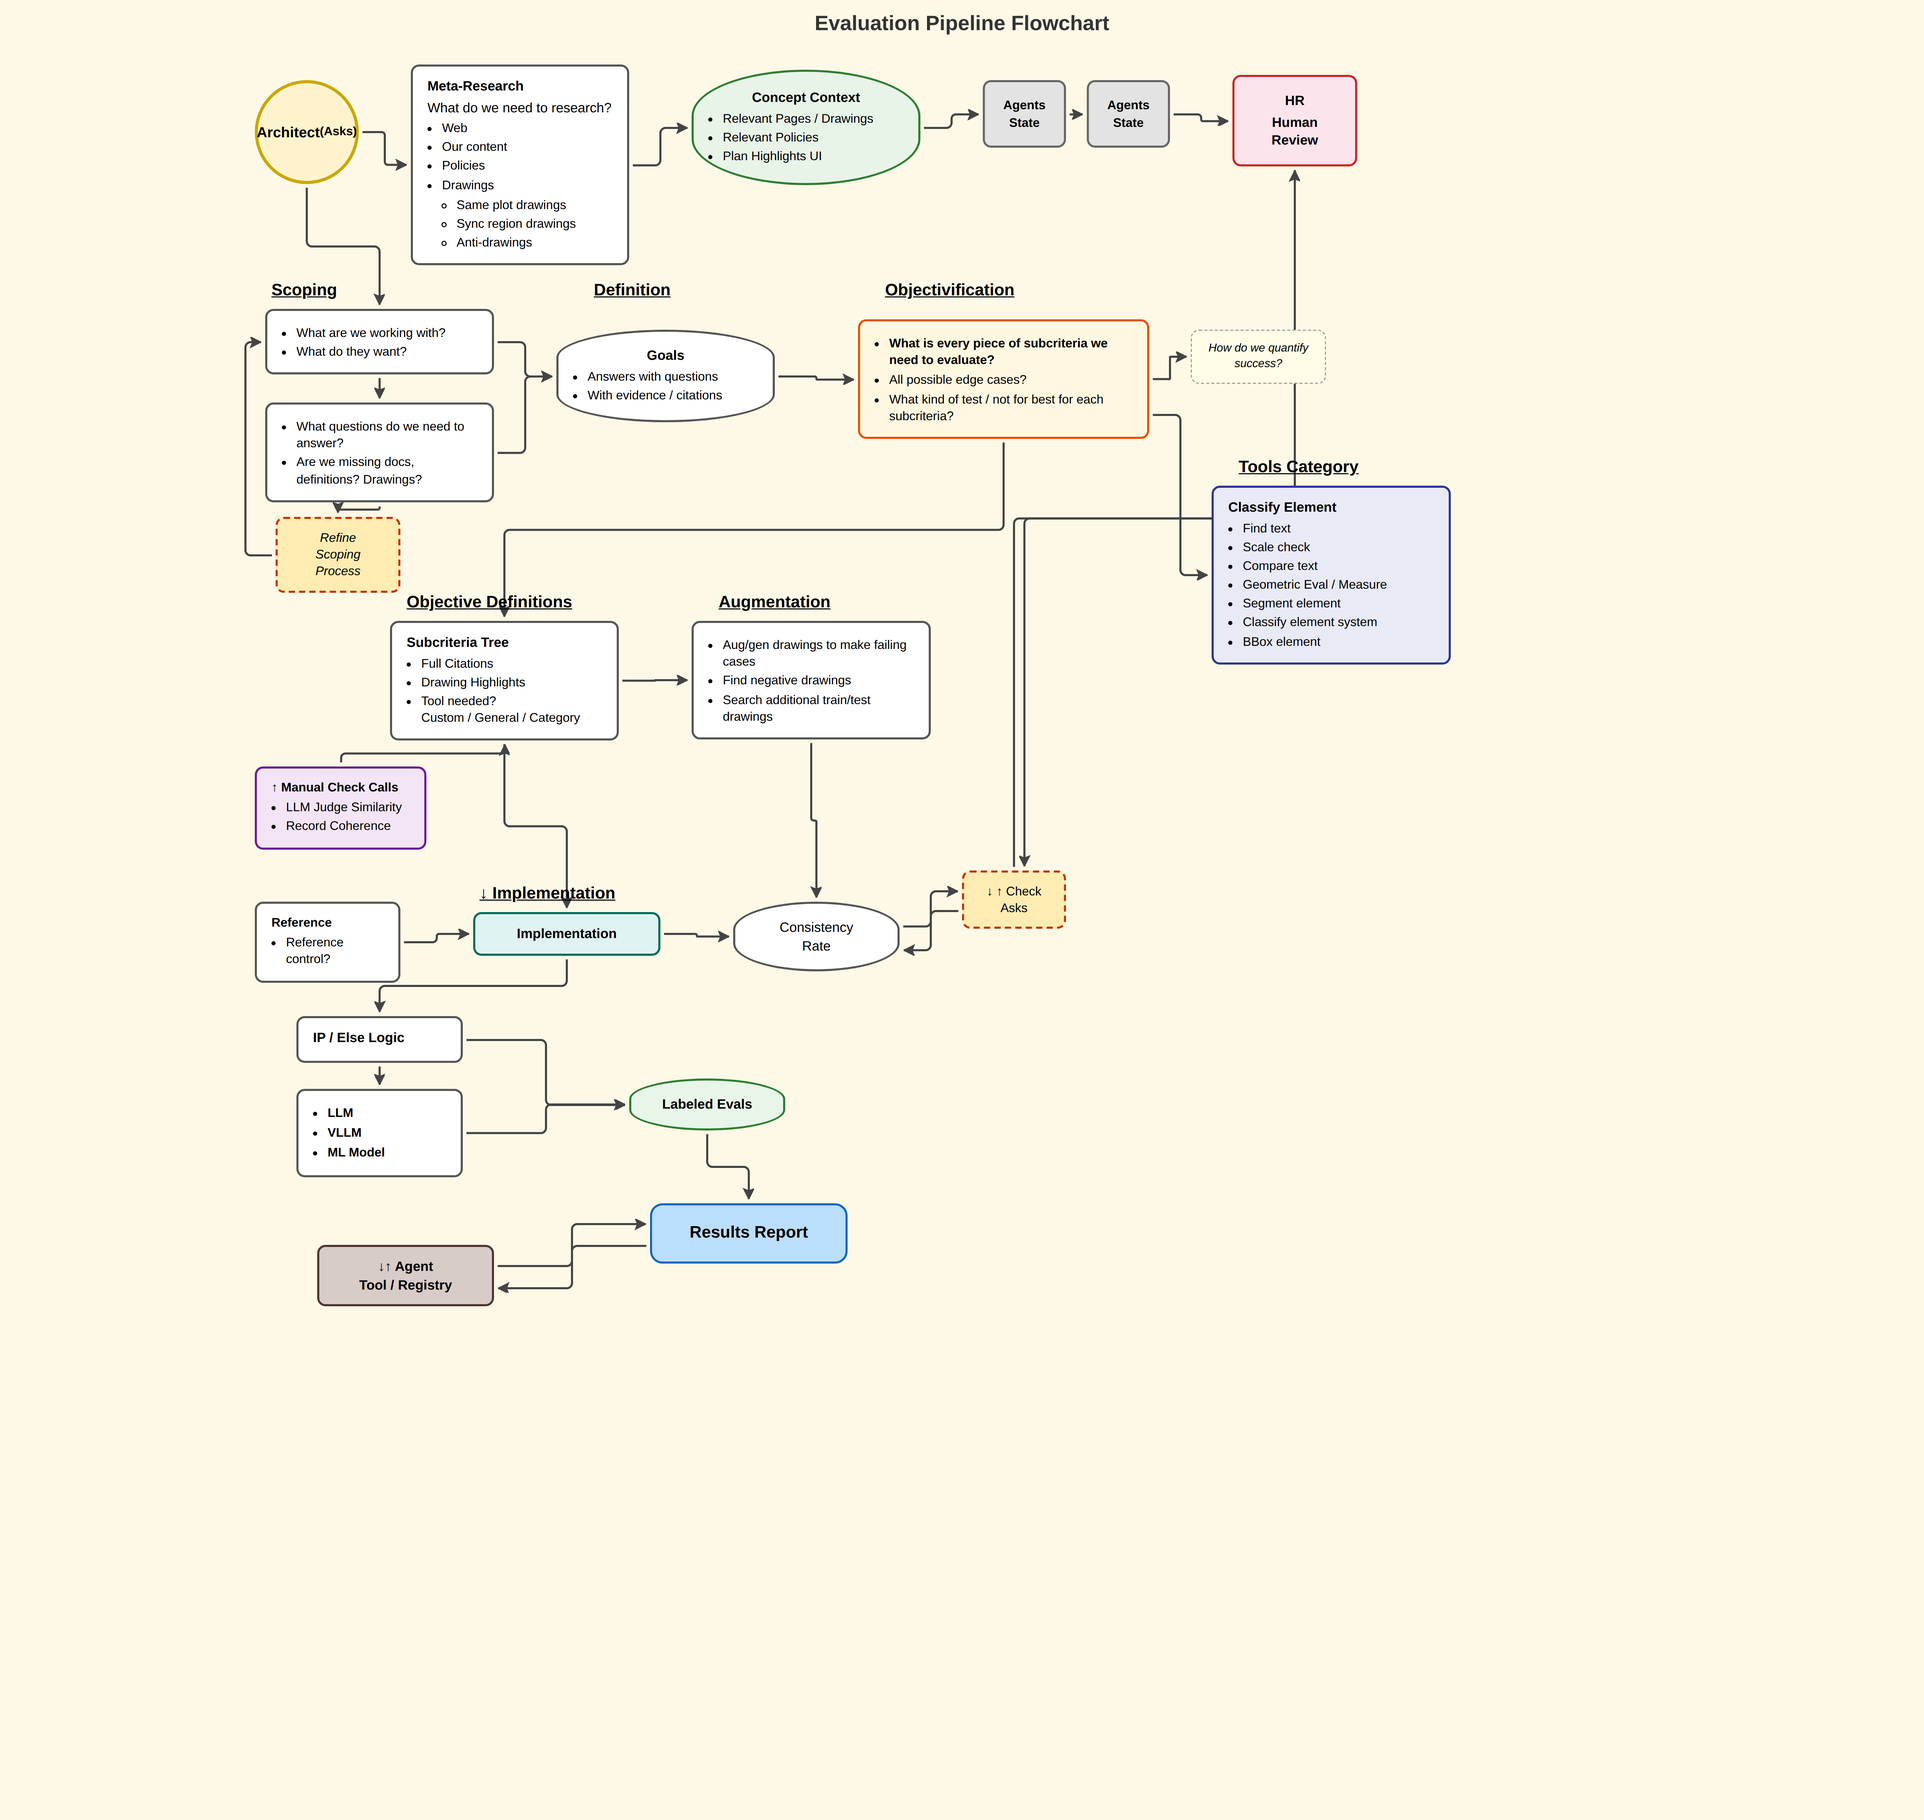
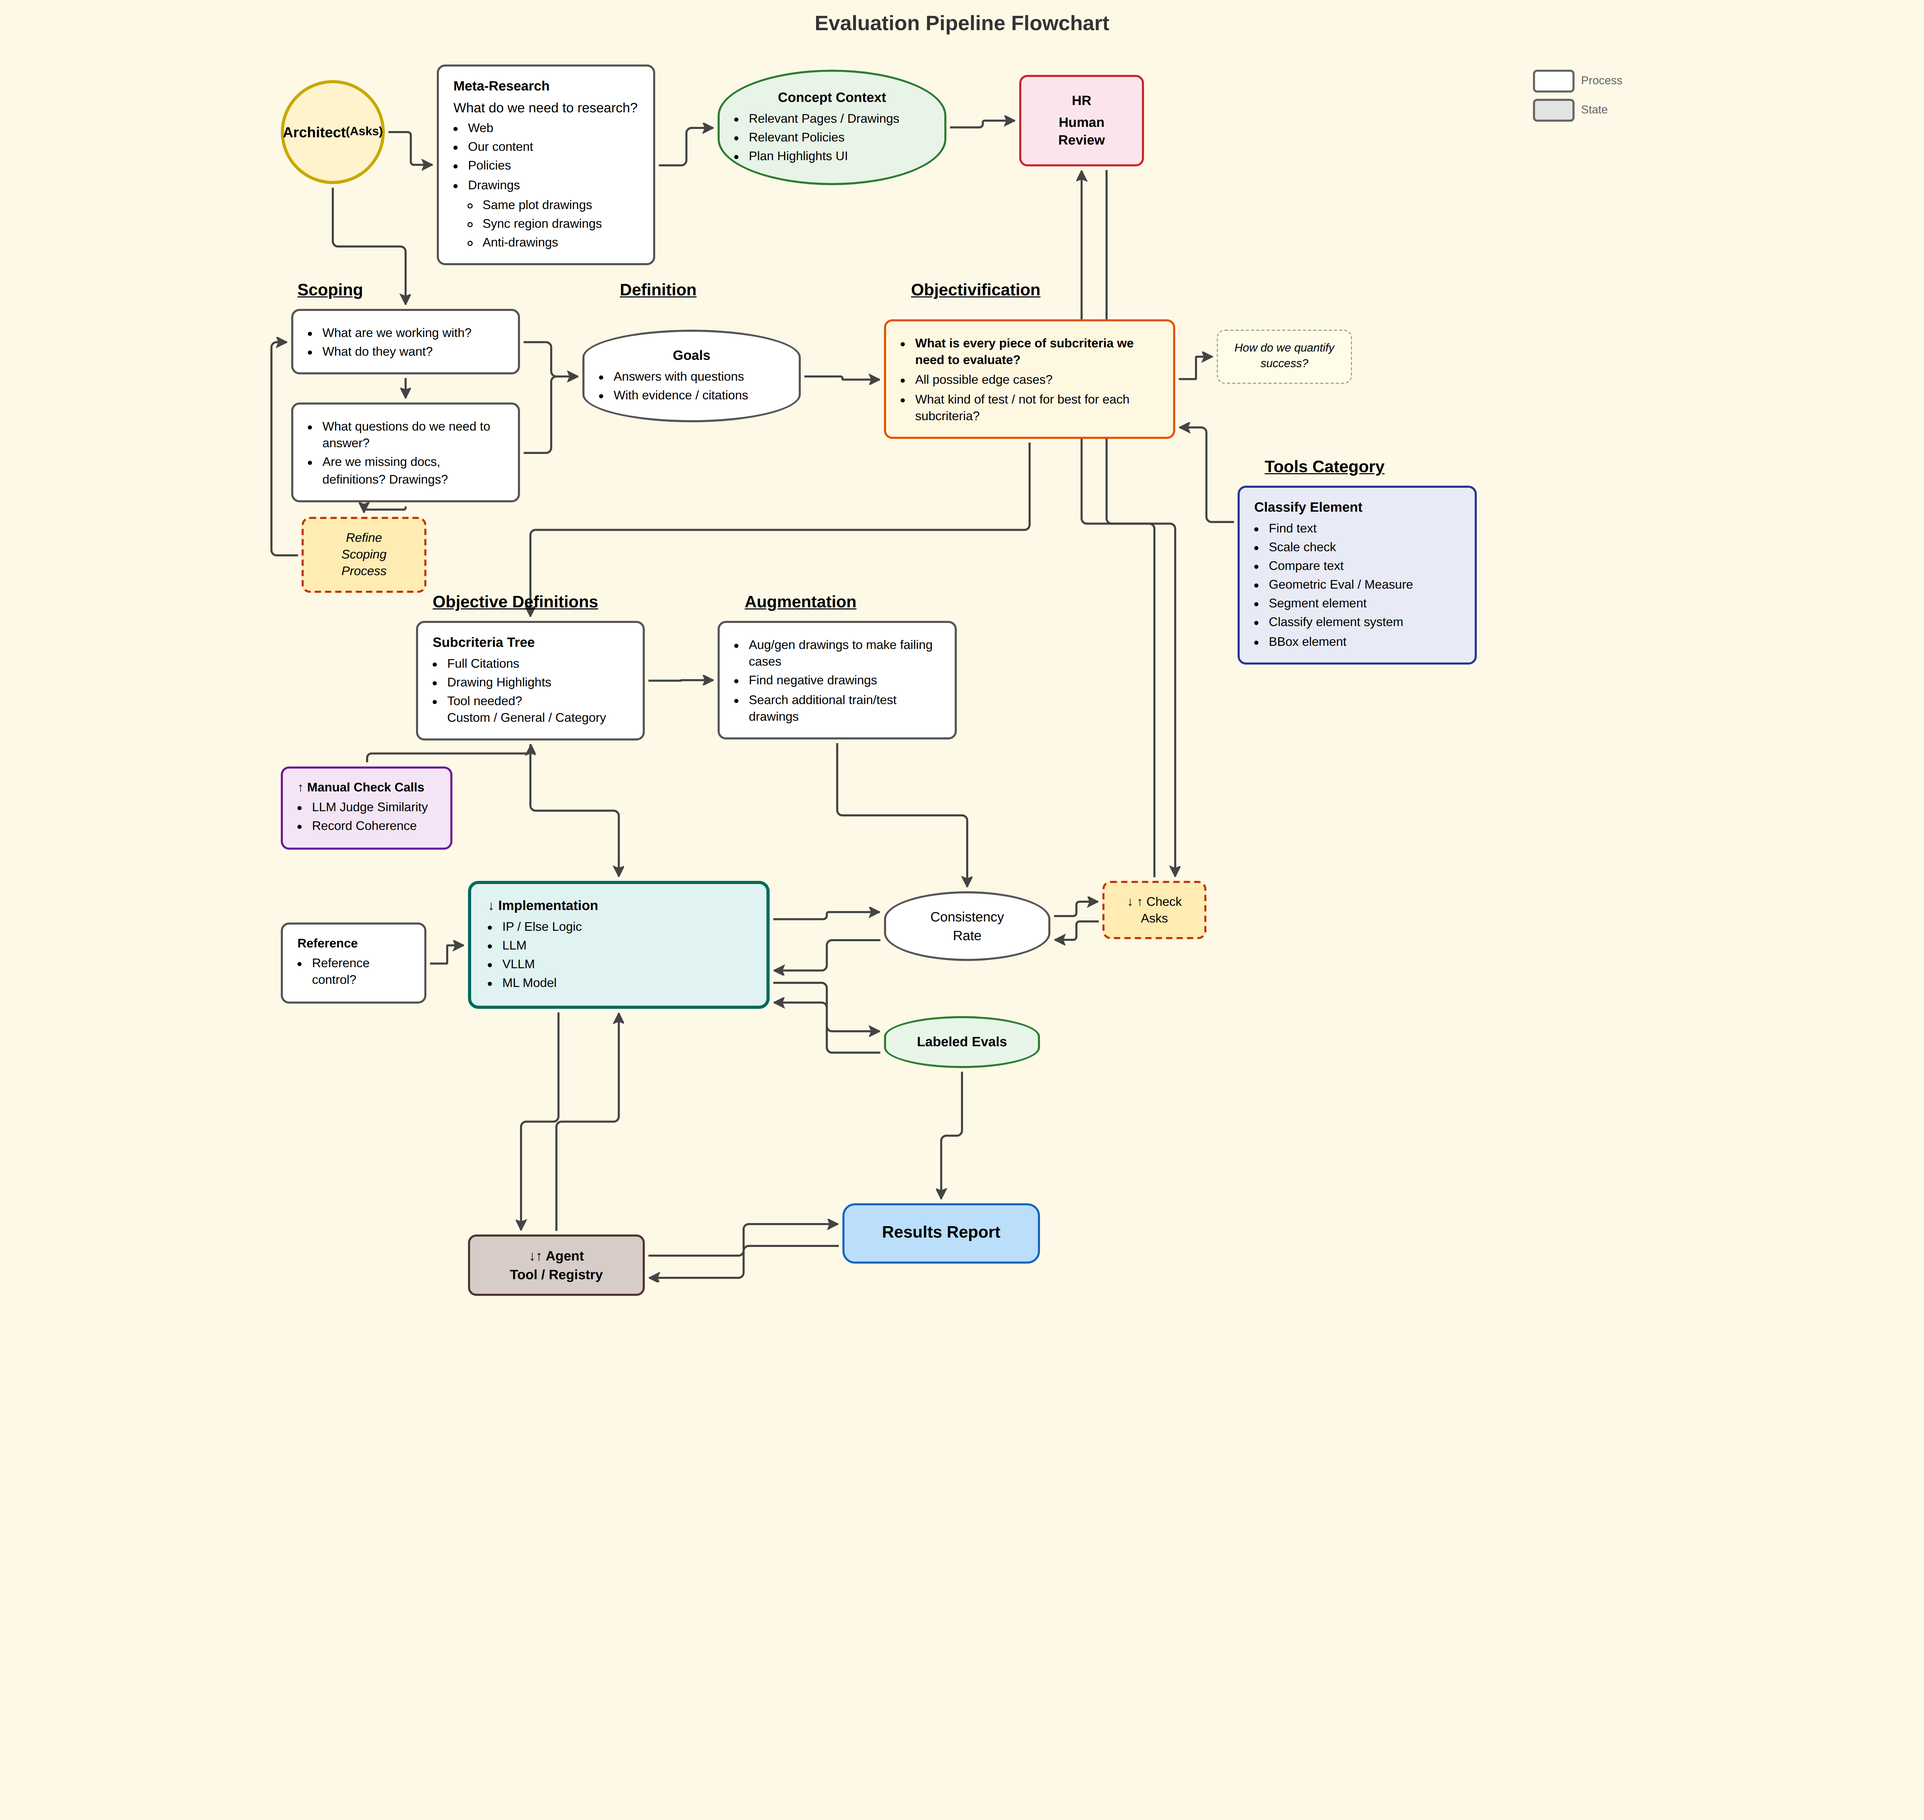
Fix flowchart structure based on sketch review
- Remove Agents State boxes (legend only, not flow nodes)
- Add Process/State legend in top-right corner
- Implementation is now a single box containing IP/Else Logic, LLM, VLLM, ML Model
- Concept Context flows right to HR (not to Agents State)
- Architect flows down to Scoping (not Meta-Research)
- Consistency Rate and Labeled Evals are bidirectional with Implementation
- Tools Category arrow reversed (feeds into Objectivification)
- Check Asks ↔ HR Review bidirectional

https://claude.ai/code/session_01ACqAQYPFBbKpKmakn9XRgH

diff --git a/flowchart.html b/flowchart.html
@@ -17,8 +17,8 @@
 
     #canvas {
       position: relative;
-      width: 1400px;
-      height: 1500px;
+      width: 1350px;
+      height: 1450px;
       margin: 10px auto;
     }
 
@@ -32,6 +32,33 @@
       cursor: default;
     }
 
+    /* ---- Legend ---- */
+    .legend {
+      position: absolute;
+      z-index: 10;
+      font-size: 11px;
+      color: #666;
+    }
+    .legend-item {
+      display: flex;
+      align-items: center;
+      gap: 6px;
+      margin-bottom: 6px;
+    }
+    .legend-process {
+      width: 40px; height: 22px;
+      border: 2px solid #666;
+      border-radius: 4px;
+      background: #fff;
+    }
+    .legend-state {
+      width: 40px; height: 22px;
+      border: 2px solid #666;
+      border-radius: 4px;
+      background: #e3e3e3;
+    }
+
+    /* ---- Node styles ---- */
     .architect {
       background: #fff3cd;
       border: 3px solid #c9a800;
@@ -59,19 +86,6 @@
       width: 220px;
       text-align: center;
       padding: 16px 14px;
-    }
-
-    .agents-state {
-      background: #e3e3e3;
-      border: 2px solid #666;
-      width: 80px;
-      height: 65px;
-      text-align: center;
-      display: flex;
-      align-items: center;
-      justify-content: center;
-      font-weight: 600;
-      font-size: 12px;
     }
 
     .hr-review {
@@ -149,10 +163,10 @@
 
     .impl-box {
       background: #e0f2f1;
-      border: 2px solid #00695c;
-      width: 180px;
-      text-align: center;
-      font-weight: 700;
+      border: 3px solid #00695c;
+      border-radius: 10px;
+      width: 290px;
+      padding: 12px 16px;
     }
 
     .consistency-box {
@@ -170,12 +184,6 @@
       width: 100px;
       text-align: center;
       font-size: 12px;
-    }
-
-    .impl-detail {
-      background: #fff;
-      border: 2px solid #555;
-      width: 160px;
     }
 
     .labeled-evals {
@@ -232,7 +240,13 @@
 
   <div id="canvas">
 
-    <!-- ==================== ROW 1: Architect → Meta-Research → Concept Context → Agents → HR ==================== -->
+    <!-- ===== LEGEND (top-right) ===== -->
+    <div class="legend" style="right: 40px; top: 10px;">
+      <div class="legend-item"><div class="legend-process"></div> Process</div>
+      <div class="legend-item"><div class="legend-state"></div> State</div>
+    </div>
+
+    <!-- ===== ROW 1: Architect → Meta-Research → Concept Context → HR ===== -->
     <div id="architect" class="node architect" style="left:20px; top:20px;">
       Architect<br><small>(Asks)</small>
     </div>
@@ -263,19 +277,12 @@
       </ul>
     </div>
 
-    <div id="agents-state-1" class="node agents-state" style="left:720px; top:20px;">
-      Agents<br>State
-    </div>
-    <div id="agents-state-2" class="node agents-state" style="left:820px; top:20px;">
-      Agents<br>State
-    </div>
-
-    <div id="hr-review" class="node hr-review" style="left:960px; top:15px;">
+    <div id="hr-review" class="node hr-review" style="left:730px; top:15px;">
       <b>HR</b>
       Human<br>Review
     </div>
 
-    <!-- ==================== ROW 2: Scoping / Definition / Objectivification ==================== -->
+    <!-- ===== ROW 2: Scoping / Definition / Objectivification ===== -->
     <div id="scoping-header" class="node section-header" style="left:30px; top:210px;">
       Scoping
     </div>
@@ -326,7 +333,7 @@
       How do we quantify success?
     </div>
 
-    <!-- ==================== ROW 3: Obj Def / Augmentation / Tools ==================== -->
+    <!-- ===== ROW 3: Obj Def / Augmentation / Tools ===== -->
 
     <div id="tools-header" class="node section-header" style="left:960px; top:380px;">
       Tools Category
@@ -378,53 +385,43 @@
       </ul>
     </div>
 
-    <!-- ==================== ROW 4: Reference / Implementation ==================== -->
-    <div id="reference-box" class="node reference-box" style="left:20px; top:810px;">
+    <!-- ===== ROW 4: Reference / Implementation (container) ===== -->
+    <div id="reference-box" class="node reference-box" style="left:20px; top:830px;">
       <b>Reference</b>
       <ul>
         <li>Reference control?</li>
       </ul>
     </div>
 
-    <div id="impl-header" class="node section-header" style="left:230px; top:790px;">
-      &darr; Implementation
-    </div>
-
-    <div id="impl-box" class="node impl-box" style="left:230px; top:820px;">
-      Implementation
-    </div>
-
-    <div id="consistency-rate" class="node consistency-box" style="left:480px; top:810px;">
-      Consistency<br>Rate
-    </div>
-
-    <div id="check-asks" class="node check-asks" style="left:700px; top:780px;">
-      &darr; &uarr; Check<br>Asks
-    </div>
-
-    <!-- ==================== ROW 5: IP/Else, LLM, VLLM, ML Model ==================== -->
-    <div id="ip-logic" class="node impl-detail" style="left:60px; top:920px;">
-      <b>IP / Else Logic</b>
-    </div>
-
-    <div id="llm-box" class="node impl-detail" style="left:60px; top:990px;">
+    <div id="impl-box" class="node impl-box" style="left:200px; top:790px;">
+      <b>&darr; Implementation</b>
       <ul>
-        <li><b>LLM</b></li>
-        <li><b>VLLM</b></li>
-        <li><b>ML Model</b></li>
+        <li>IP / Else Logic</li>
+        <li>LLM</li>
+        <li>VLLM</li>
+        <li>ML Model</li>
       </ul>
     </div>
 
-    <div id="labeled-evals" class="node labeled-evals" style="left:380px; top:980px;">
+    <!-- Consistency Rate & Labeled Evals (outside Implementation) -->
+    <div id="consistency-rate" class="node consistency-box" style="left:600px; top:800px;">
+      Consistency<br>Rate
+    </div>
+
+    <div id="labeled-evals" class="node labeled-evals" style="left:600px; top:920px;">
       Labeled Evals
     </div>
 
-    <!-- ==================== ROW 6: Results / Tool Registry ==================== -->
-    <div id="results-report" class="node results-report" style="left:400px; top:1100px;">
+    <div id="check-asks" class="node check-asks" style="left:810px; top:790px;">
+      &darr; &uarr; Check<br>Asks
+    </div>
+
+    <!-- ===== ROW 5: Results / Tool Registry ===== -->
+    <div id="results-report" class="node results-report" style="left:560px; top:1100px;">
       Results Report
     </div>
 
-    <div id="tool-registry" class="node tool-registry" style="left:80px; top:1140px;">
+    <div id="tool-registry" class="node tool-registry" style="left:200px; top:1130px;">
       &darr;&uarr; Agent<br>Tool / Registry
     </div>
 
@@ -452,99 +449,103 @@
         });
       }
 
-      // === ROW 1: Architect pipeline (left to right) ===
+      // ====== ROW 1: Architect → Meta-Research → Concept Context ======
       connect("architect", "meta-research", ["Right", "Left"]);
       connect("meta-research", "concept-context", ["Right", "Left"]);
-      connect("concept-context", "agents-state-1", ["Right", "Left"]);
-      connect("agents-state-1", "agents-state-2", ["Right", "Left"]);
-      connect("agents-state-2", "hr-review", ["Right", "Left"]);
+      // Concept Context → HR Review (right)
+      connect("concept-context", "hr-review", ["Right", "Left"]);
 
-      // === ROW 1 → ROW 2: Architect down to Scoping ===
+      // ====== Architect → down to Scoping ======
       connect("architect", "scoping-what", ["Bottom", "Top"]);
 
-      // === Scoping internal flow ===
+      // ====== Scoping internal flow ======
       connect("scoping-what", "scoping-questions", ["Bottom", "Top"]);
       connect("scoping-questions", "refine-loop", ["Bottom", "Top"]);
-      // Refine loop back up
+      // Refine loop back up (dashed, left side)
       connect("refine-loop", "scoping-what", ["Left", "Left"], {
         Connector: ["Flowchart", { cornerRadius: 8, stub: 25, gap: 4 }],
         PaintStyle: { stroke: "#bf360c", strokeWidth: 2, dashstyle: "4 3" }
       });
 
-      // === Scoping → Definition ===
+      // ====== Scoping → Definition ======
       connect("scoping-what", "definition-box", ["Right", "Left"]);
       connect("scoping-questions", "definition-box", ["Right", "Left"]);
 
-      // === Definition → Objectivification ===
+      // ====== Definition → Objectivification ======
       connect("definition-box", "objectivification-box", ["Right", "Left"]);
 
-      // === Objectivification → How to quantify (dashed) ===
+      // ====== Objectivification → "How to quantify" (dashed note) ======
       connect("objectivification-box", "how-to-quote", ["Right", "Left"], {
         PaintStyle: { stroke: "#999", strokeWidth: 1, dashstyle: "3 3" }
       });
 
-      // === Objectivification → Tools Category ===
-      connect("objectivification-box", "tools-box", [
-        [1, 0.8, 1, 0], "Left"
+      // ====== Tools Category → Objectivification ======
+      connect("tools-box", "objectivification-box", [
+        [0, 0.2, -1, 0], [1, 0.9, 1, 0]
       ]);
 
-      // === Row 2 → Row 3: Objectivification down to Obj Definitions ===
+      // ====== Objectivification → Obj Definitions (down) ======
       connect("objectivification-box", "obj-def-box", ["Bottom", "Top"]);
 
-      // === Obj Definitions → Augmentation ===
+      // ====== Obj Definitions → Augmentation ======
       connect("obj-def-box", "augmentation-box", ["Right", "Left"]);
 
-      // === Manual check → Obj Definitions (up arrow) ===
+      // ====== Manual check → Obj Definitions (up arrow) ======
       connect("manual-check", "obj-def-box", ["Top", "Bottom"], {
         PaintStyle: { stroke: "#6a1b9a", strokeWidth: 2 }
       });
 
-      // === Reference → Implementation ===
+      // ====== Reference → Implementation ======
       connect("reference-box", "impl-box", ["Right", "Left"]);
 
-      // === Obj Def → Implementation (down) ===
+      // ====== Obj Def → Implementation (down) ======
       connect("obj-def-box", "impl-box", ["Bottom", "Top"]);
 
-      // === Implementation → Consistency Rate ===
-      connect("impl-box", "consistency-rate", ["Right", "Left"]);
+      // ====== Implementation ↔ Consistency Rate (bidirectional) ======
+      connect("impl-box", "consistency-rate", [[1, 0.3, 1, 0], [0, 0.3, -1, 0]]);
+      connect("consistency-rate", "impl-box", [[0, 0.7, -1, 0], [1, 0.7, 1, 0]], {
+        PaintStyle: { stroke: "#00695c", strokeWidth: 2, dashstyle: "4 3" }
+      });
 
-      // === Consistency Rate ↔ Check Asks (bidirectional) ===
+      // ====== Implementation ↔ Labeled Evals (bidirectional) ======
+      connect("impl-box", "labeled-evals", [[1, 0.8, 1, 0], [0, 0.3, -1, 0]]);
+      connect("labeled-evals", "impl-box", [[0, 0.7, -1, 0], [1, 0.95, 1, 0]], {
+        PaintStyle: { stroke: "#2e7d32", strokeWidth: 2, dashstyle: "4 3" }
+      });
+
+      // ====== Consistency Rate ↔ Check Asks (bidirectional) ======
       connect("consistency-rate", "check-asks", [[1, 0.35, 1, 0], [0, 0.35, -1, 0]]);
       connect("check-asks", "consistency-rate", [[0, 0.7, -1, 0], [1, 0.7, 1, 0]], {
         PaintStyle: { stroke: "#bf360c", strokeWidth: 2, dashstyle: "4 3" }
       });
 
-      // === Check Asks ↔ HR Review (bidirectional up) ===
-      connect("check-asks", "hr-review", ["Top", "Bottom"], {
+      // ====== Check Asks ↔ HR Review (bidirectional up) ======
+      connect("check-asks", "hr-review", [[0.5, 0, 0, -1], [0.5, 1, 0, 1]], {
         PaintStyle: { stroke: "#c62828", strokeWidth: 2 }
       });
-      connect("hr-review", "check-asks", [[0.5, 1, 0, 1], [0.6, 0, 0, -1]], {
+      connect("hr-review", "check-asks", [[0.7, 1, 0, 1], [0.7, 0, 0, -1]], {
         PaintStyle: { stroke: "#c62828", strokeWidth: 2, dashstyle: "4 3" }
       });
 
-      // === Implementation → IP Logic ===
-      connect("impl-box", "ip-logic", ["Bottom", "Top"]);
+      // ====== Augmentation → Consistency Rate (down) ======
+      connect("augmentation-box", "consistency-rate", ["Bottom", "Top"]);
 
-      // === IP Logic down to LLM box ===
-      connect("ip-logic", "llm-box", ["Bottom", "Top"]);
-
-      // === IP Logic → Labeled Evals ===
-      connect("ip-logic", "labeled-evals", ["Right", "Left"]);
-
-      // === LLM box → Labeled Evals ===
-      connect("llm-box", "labeled-evals", ["Right", "Left"]);
-
-      // === Labeled Evals → Results Report ===
+      // ====== Labeled Evals → Results Report (down) ======
       connect("labeled-evals", "results-report", ["Bottom", "Top"]);
 
-      // === Tool Registry ↔ Results Report (bidirectional) ===
+      // ====== Tool Registry ↔ Results Report (bidirectional) ======
       connect("tool-registry", "results-report", [[1, 0.35, 1, 0], [0, 0.35, -1, 0]]);
       connect("results-report", "tool-registry", [[0, 0.7, -1, 0], [1, 0.7, 1, 0]], {
         PaintStyle: { stroke: "#4e342e", strokeWidth: 2, dashstyle: "4 3" }
       });
 
-      // === Augmentation → down toward Consistency ===
-      connect("augmentation-box", "consistency-rate", ["Bottom", "Top"]);
+      // ====== Tool Registry ↔ Implementation (bidirectional up) ======
+      connect("tool-registry", "impl-box", [[0.5, 0, 0, -1], [0.5, 1, 0, 1]], {
+        PaintStyle: { stroke: "#4e342e", strokeWidth: 2 }
+      });
+      connect("impl-box", "tool-registry", [[0.3, 1, 0, 1], [0.3, 0, 0, -1]], {
+        PaintStyle: { stroke: "#4e342e", strokeWidth: 2, dashstyle: "4 3" }
+      });
 
     });
   </script>
